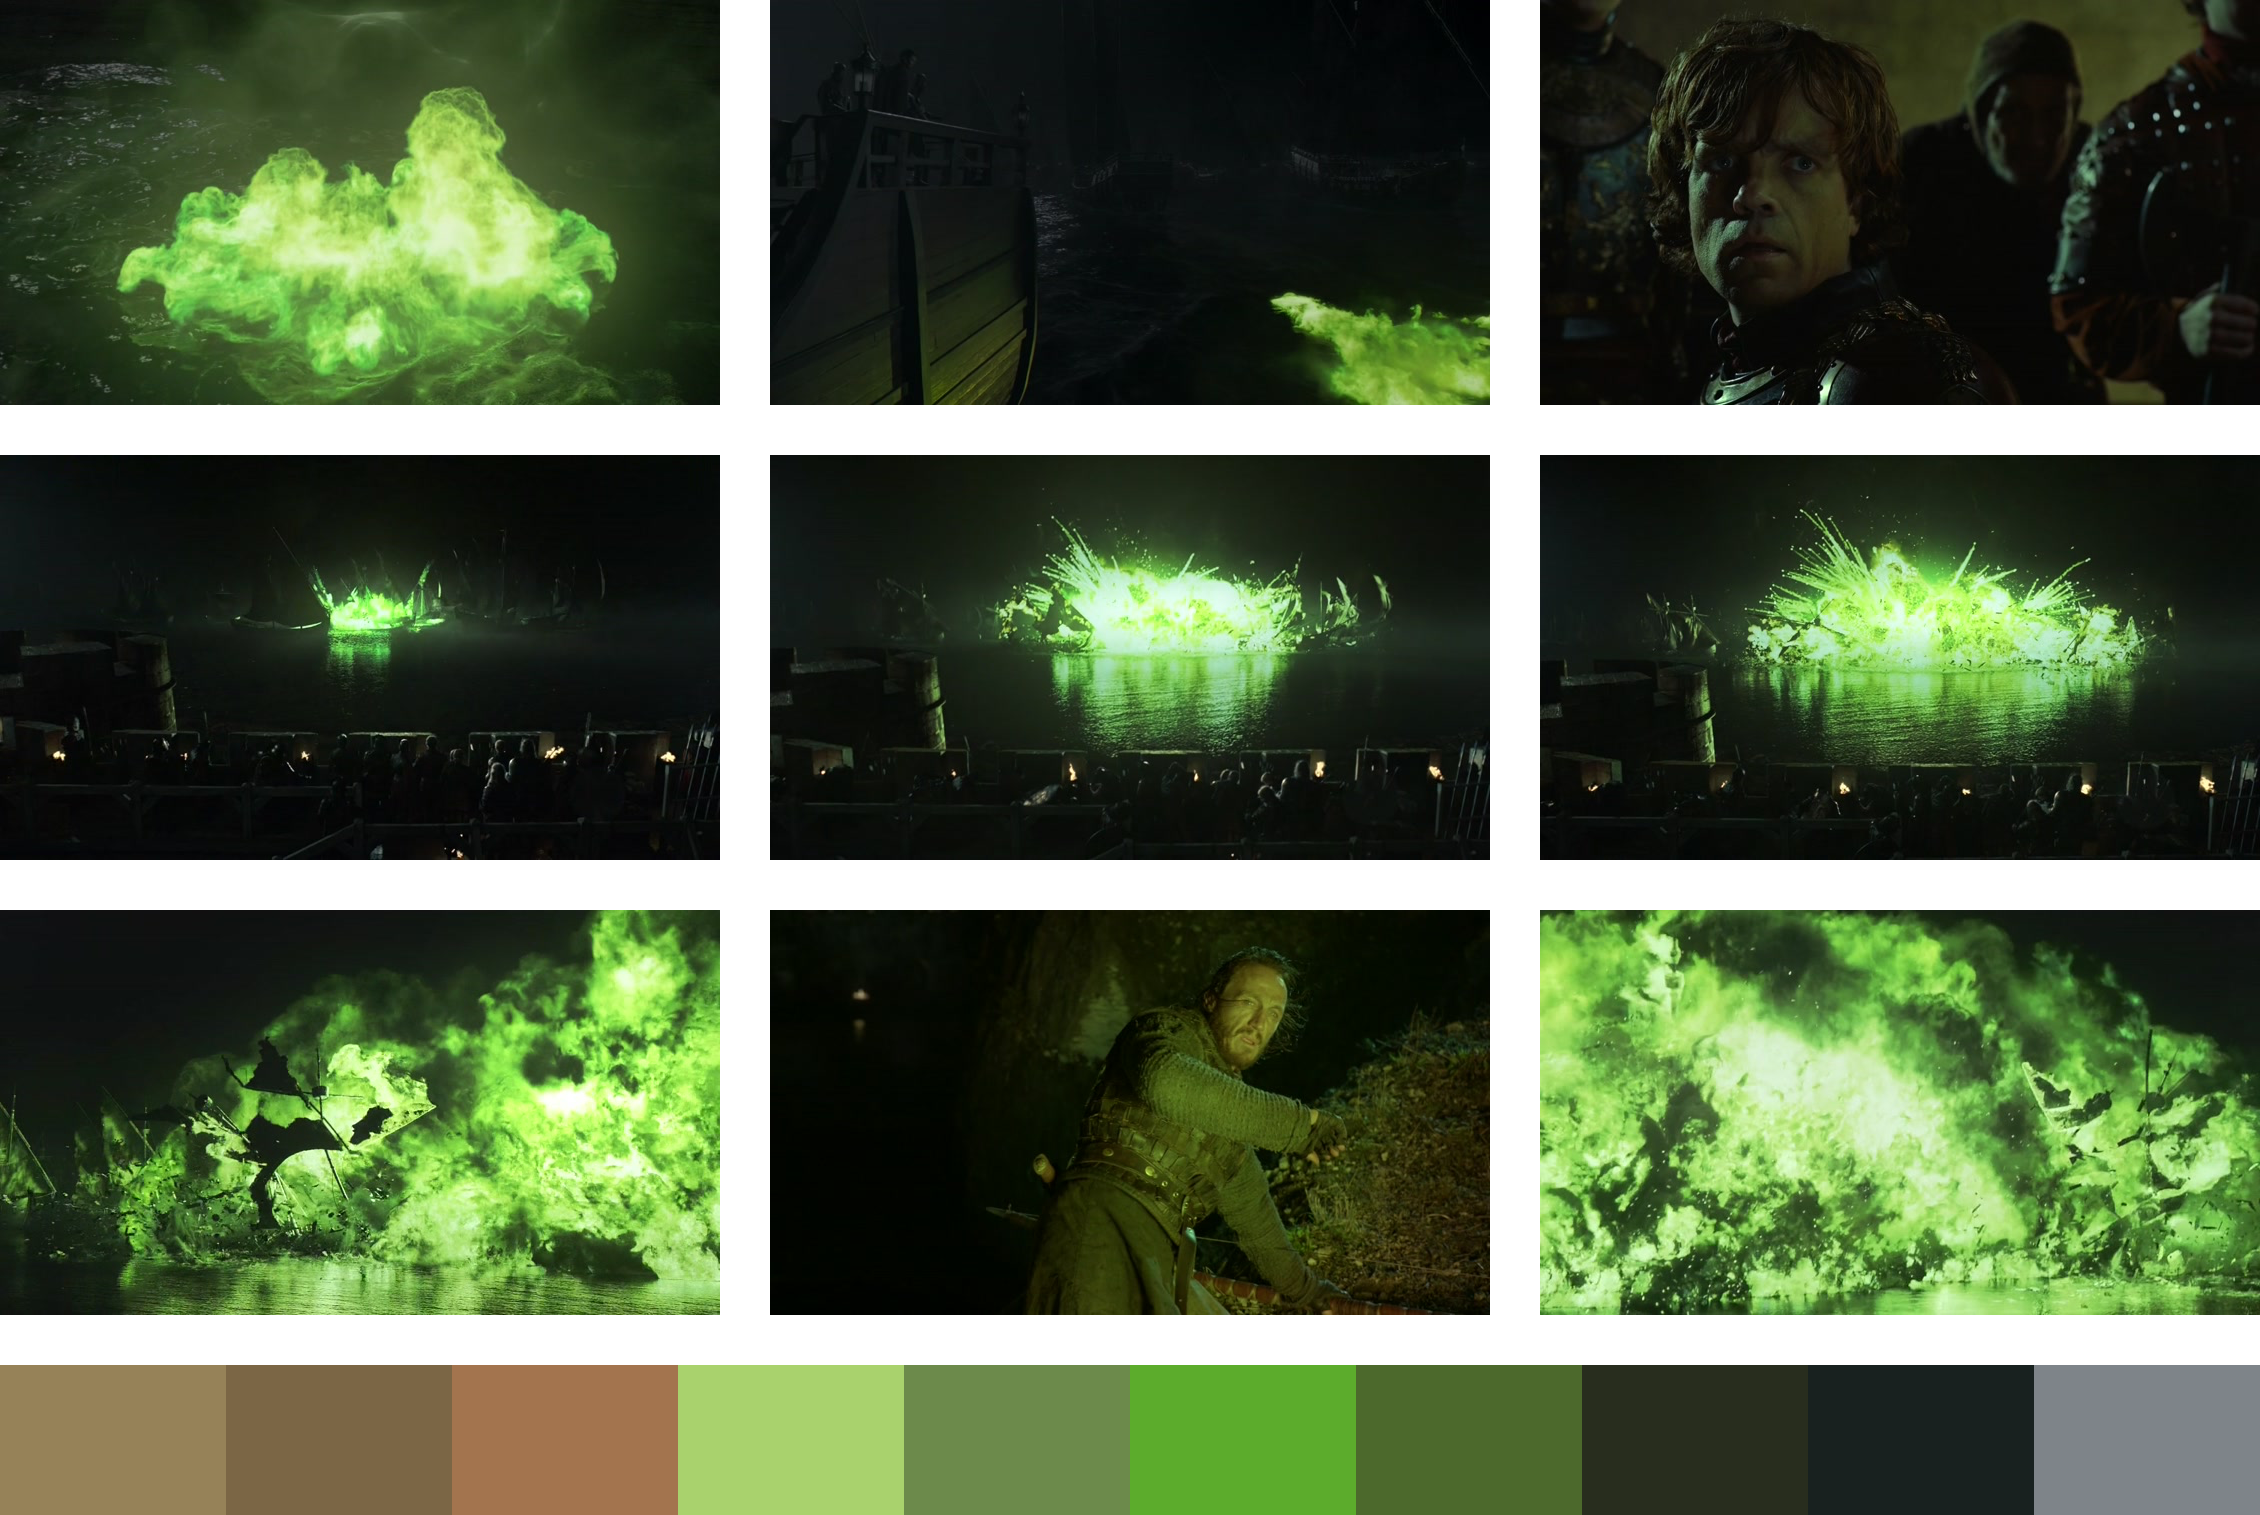
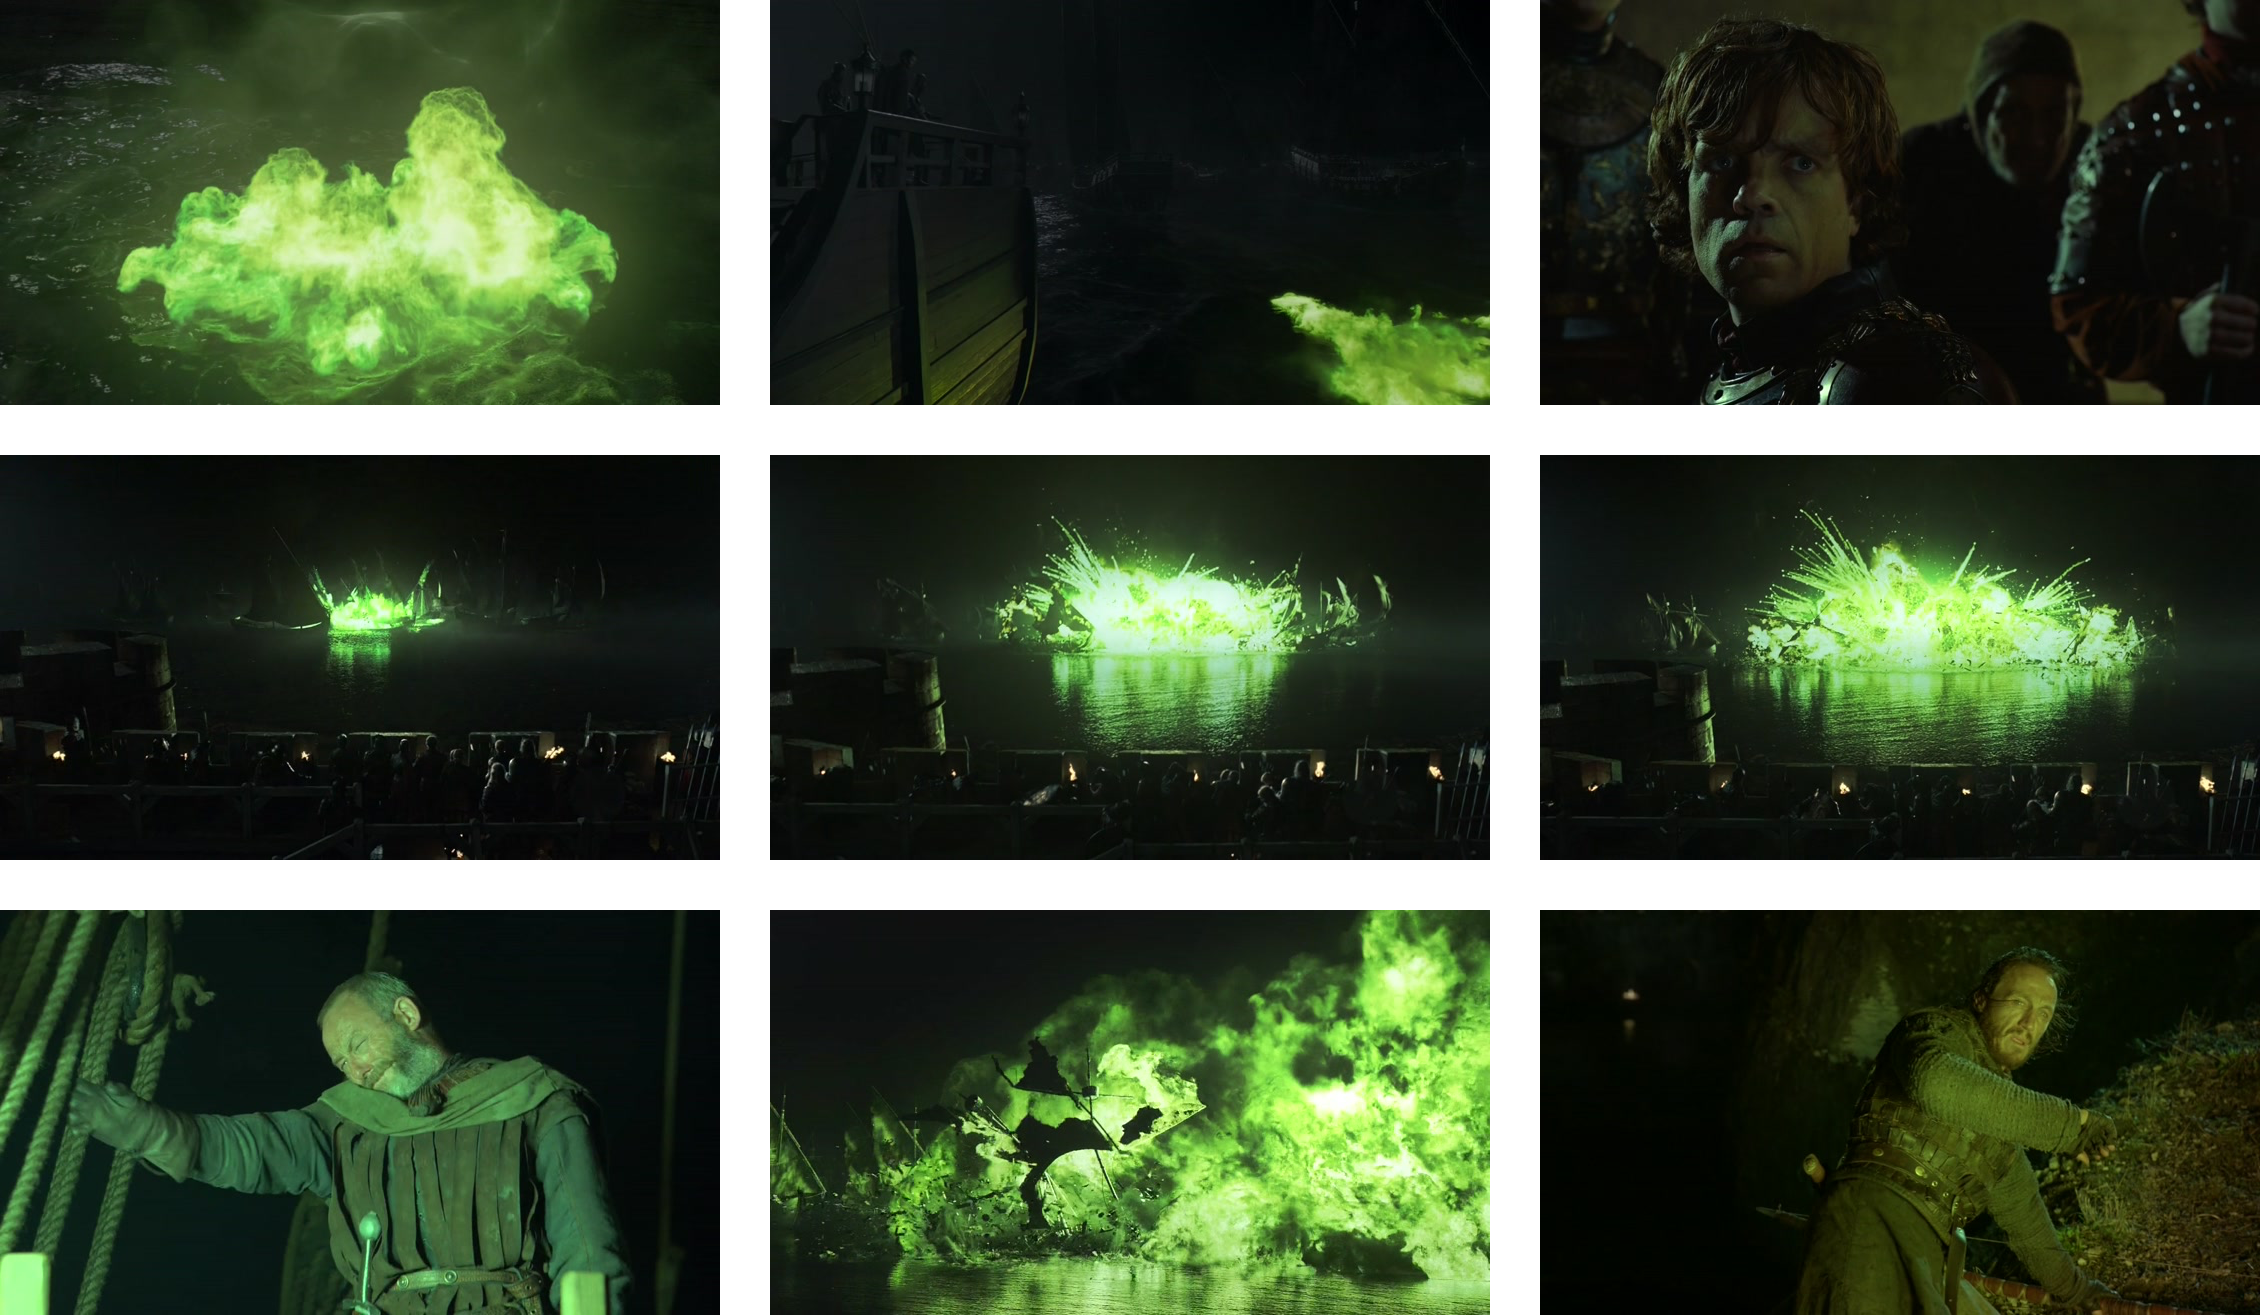
case study 1

diff --git a/vis/index.html b/vis/index.html
@@ -30,7 +30,7 @@
   <h3 class="center video-overlay-subheader"><i>An interactive visualization summarizing the visual and textual aspects of the hit HBO series <b>Game of Thrones</b>.</i></h3>
   <p class="video-overlay-text">By Fred Hohman, Sandeep Soni, and Ian Stewart</p>
   <video preload="auto" autoplay="" loop=""poster="https://s3-us-west-2.amazonaws.com/coverr/poster/Everything-is-right.jpg" style="width: 1680px;">
-    <!-- <source src="images/cs7450intro.mp4" type="video/mp4"> -->
+    <source src="images/cs7450intro.mp4" type="video/mp4">
 
     <!-- <source src="https://s3-us-west-2.amazonaws.com/coverr/mp4/Everything-is-right.mp4" type="video/mp4">Your browser does not support the video tag. I suggest you upgrade your browser. -->
     <!-- <source src="https://s3-us-west-2.amazonaws.com/coverr/webm/Everything-is-right.webm" type="video/webm">Your browser does not support the video tag. I suggest you upgrade your browser. -->
@@ -403,7 +403,7 @@
   <div class="col-md-4">
     <div id="text-metadata" class="metadata-content">
       <!-- Top words found in <b><span id="text-category"></span></b> episode: -->
-      <h4>Histogram of top words in <b><span id="episode-title-number">S1E1</span></b>:</h4>
+      <h4>Histogram of top words in <b><span id="episode-title-number">S1E1</span></b></h4>
       <!-- <ol id="text-wordlist"> -->
       </ol>
     </div>
@@ -426,8 +426,10 @@
       The bright green of "wildfire" is one of the most memorable colors in the entire Game of Thrones series, because of the fire's hue and its importance in the plot as a deadly weapon. 
     </p>
 
-    // insert representative image here
-    <img src="http://placehold.it/500x150" width="100%">
+    <br>
+    <img src="images/cs1-title.png" width="100%">
+    <br>
+    <br>
 
     <p>
       We explore the visual impact of the wildfire, as well as its corresponding impact on the dialogue, in the two episodes where it appears:
@@ -435,12 +437,45 @@
 
     <h3>S2E9: "Blackwater"</h3>
 
+    <p>
+      In Season 2 Episode 9 is the first of only two occurances where viewers witness a wildfire explosion. At this point in the series, King's Landing prepares for an attack from an on-coming, yet unsuspecting fleet of ships. Wildfire changes the tides of battle, and ultimately the rest of the plot. Below is what the visualzation shows for this episode.
+    </p>
+
+    <br>
+    <!-- <img src="images/cs1-1.png" width="100%"> -->
+    screenshot here of vis system
+    <br>
+    <br>
+
+    <p>
+      Notice here the the bright green color sticks out in the episode's color palettes, and all dialog ceases, a rather unusual scenario in Game of Thrones. We can inspect the image data to take a peak at scene itself to illustrate the lack of dialog and vibrant colors.
+    </p>
+
+    <br>
     <img src="images/cs1-1.png" width="100%">
+    <br>
+    <br>
 
     <h3>S6E10: "The Winds of Winter"</h3>
 
-    // insert interactive viz here
-    <img src="http://placehold.it/500x150" width="100%">
+    <p>
+      Viewers witness the second wildfire explosion during an important gathering in King's Landing, where the event directly leads to a change in rulership. Below is what the visualzation shows for this episode.
+    </p>
+
+    <br>
+    <!-- <img src="images/cs1-1.png" width="100%"> -->
+    screenshot here of vis system
+    <br>
+    <br>
+
+    <p>
+      We see that this use of wildfire is temporally shorter than before, but its impact on the dialog is the same. Once again, we can inspect the image data around this scene.
+    </p>
+
+    <br>
+    <img src="images/cs1-2.png" width="100%">
+    <br>
+    <br>
 
     <p>
       In both cases, we see that the wildfire represents the most vivid color in each episode and even silences all dialogue when it appears.
